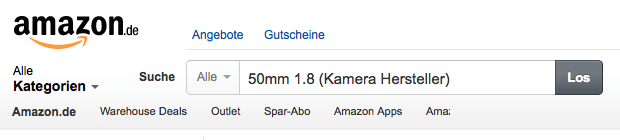
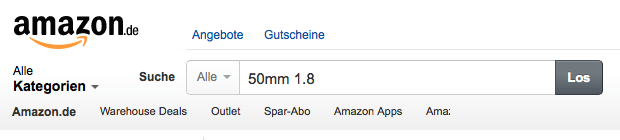
blog on

Changed region(s): [[0.4903, 0.5143, 0.7355, 0.6286]]

diff --git a/_posts/2014-04-30-workshop-blogcam.md b/_posts/2014-04-30-workshop-blogcam.md
@@ -1,6 +1,6 @@
 ---
 layout: offer
-title: "?!?!?! Was soll hier nur stehen ?!?!?!"
+title: "Stephies Workshop"
 description: "Mein tierischer Fotoworkshop"
 category: blog
 tags: []
@@ -8,7 +8,7 @@ image:
   feature: ziege.jpg
 comments: true
 share: false
-published: false
+published: true
 ---
 
 
@@ -23,7 +23,7 @@ Am Ententeich wurden mir verschiedene Möglichkeiten der einzelnen Kameraprogram
 
 <figure class="half">
 	<img src="/images/ente.jpg">
-	<img src="/images/ziege2.jpg">
+	<img src="/images/hase.jpg">
 	<figcaption>splish splash</figcaption>
 </figure>
 
@@ -41,15 +41,8 @@ Vielen vielen Dank lieber Kay für die absolut verständlichen Erklärungen, gut
 
 Stephie
 
+---------------
 
-test:
-
-<figure class="third">
-	<a href="http://placehold.it/pfau.jpg"><img src="http://placehold.it/pfau600"></a>
-	<a href="http://placehold.it/1200x600.jpg"><img src="http://placehold.it/600x300.jpg"></a>
-	<a href="http://placehold.it/1200x600.jpg"><img src="http://placehold.it/600x300.jpg"></a>
-	<figcaption>Caption describing these three images.</figcaption>
-</figure>
-
+Hast du auch an einem meiner Kurse Teilgenommen und möchtest auch einen Artikel verfassen, dann melde dich doch einfach bei mir.
 
 

diff --git a/_posts/2014-04-28-workshop-cam.md b/_posts/2014-04-28-workshop-cam.md
@@ -41,7 +41,7 @@ Das Wichtigste ist aber, dass ihr mit diesem Objektiv wirklich Freude und eine M
 Der Preis für ein solches 50mm Objektiv beläuft sich auf ca. 90-150Euro (je nach Hersteller).
 <figure>
 <img src="/images/Amazon.png"/>
-<figcaption></figcaption>
+<figcaption>Vergesst nicht den Hersteller für euer Objektiv mit einzugeben</figcaption>
 </figure>
 
 ###<u>Vergleichen:</u>
